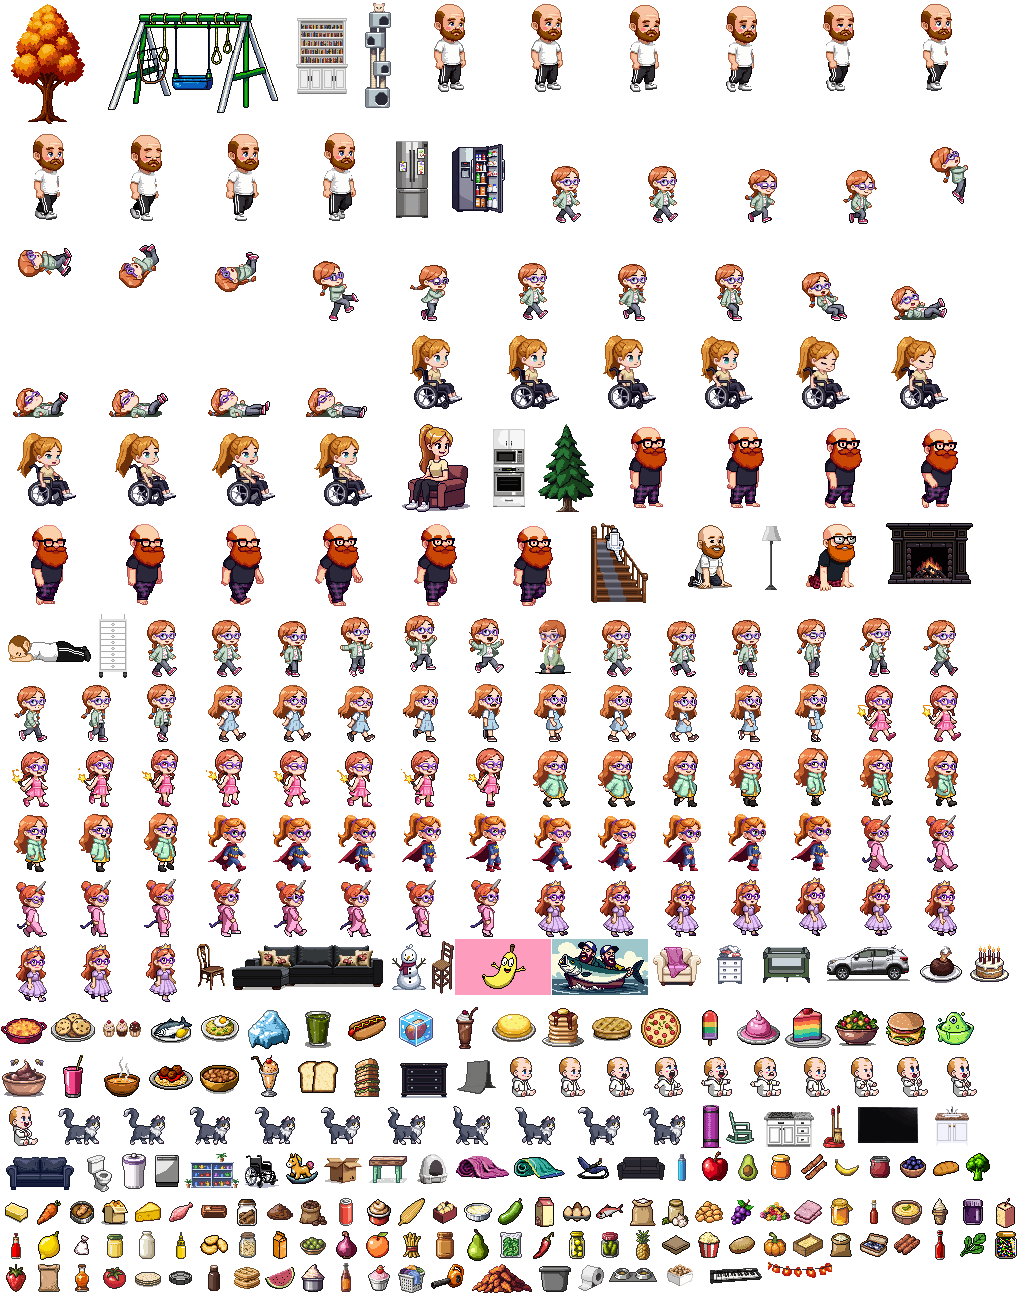
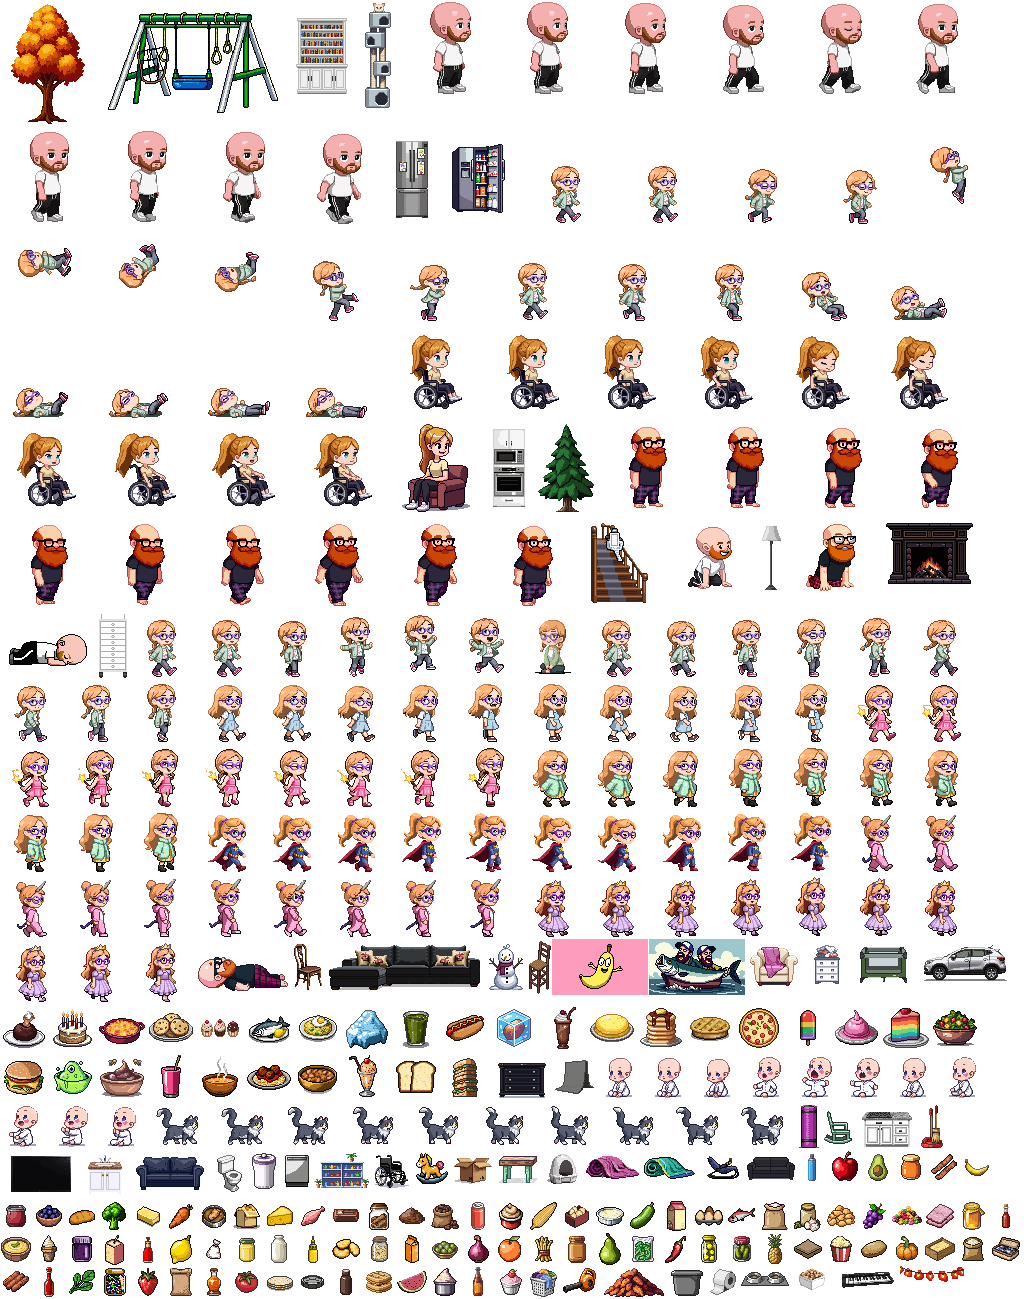
Chef Marina: bald short-beard Daddy, bald Miles, blonder strawberry-blonde Marina, Rory lying pose
Claude-Session: https://claude.ai/code/session_01VMaYe4JYu1MQheqKkDSWH1

diff --git a/chef-marina/game.js b/chef-marina/game.js
@@ -59,7 +59,7 @@ function drawEnt(e) {
     case 'marina': return drawMarina(e);
     case 'daddy': case 'rory': {
       if (e.state === 'horse') { drawSprite(e.id + '_horse', e.x, e.y + Math.abs(Math.sin(t * 10)) * -3, { flip }); return; }
-      if (e.state === 'lie') { drawSprite('daddy_lie', e.x, e.y + 2, { flip, opt: e.id === 'rory' ? { tint: [200, 90, 40, 0.0] } : null }); if (chance(0.02)) emit('zzz', e.x, e.y - 30); return; }
+      if (e.state === 'lie') { drawSprite(e.id + '_lie', e.x, e.y + 2, { flip }); if (chance(0.02)) emit('zzz', e.x, e.y - 30); return; }
       if (e.state === 'toilet') return;
       const k = e.moving ? frameKey(e.id + '_walk', t, e.curSpeed > 80 ? 16 : 9) : e.id;
       let sy = 1, rot = 0, oy = 0;
@@ -333,7 +333,7 @@ function hitTest(wx, wy) {
     if (e === miles) { sc = 0.8; ey = e.spot === 'crib' ? BACK - 10 : 156; }
     if (e === niko) { sc = 0.8; if (e.state === 'sleep' && e.perchY) ey = e.perchY; }
     if (e === mommy && e.state === 'sit') key = 'mommy_sit';
-    if ((e === daddy || e === rory) && e.state === 'lie') key = 'daddy_lie';
+    if ((e === daddy || e === rory) && e.state === 'lie') key = e.id + '_lie';
     if ((e === daddy || e === rory) && e.state === 'horse') key = e.id + '_horse';
     const b = visBox(key), pad = 6;
     if (wx > e.x + b[0] * sc - pad && wx < e.x + b[2] * sc + pad && wy > ey + b[1] * sc - pad && wy < ey + b[3] * sc + pad) return { kind: 'ent', e };

diff --git a/chef-marina/ui.js b/chef-marina/ui.js
@@ -209,7 +209,7 @@ const UI = (() => {
 
   // =========================================================== DRESS-UP
   const OUTFITS = [['default', 'marina'], ['fairy', 'o_fairy'], ['princess', 'o_princess'], ['bluedress', 'o_bluedress'], ['furcoat', 'o_furcoat'], ['hero', 'o_hero'], ['pajamas', 'o_pajamas']];
-  const HAIRS = { ginger: '#e8742c', blonde: '#f2cf6b', brown: '#7a4a26', black: '#2a2730', pink: '#ff7ab8', blue: '#4aa8ff', purple: '#a46cf0', green: '#5fcf6a', rainbow: 'conic-gradient(red,orange,yellow,lime,cyan,blue,magenta,red)' };
+  const HAIRS = { ginger: '#eba864', blonde: '#f2cf6b', brown: '#7a4a26', black: '#2a2730', pink: '#ff7ab8', blue: '#4aa8ff', purple: '#a46cf0', green: '#5fcf6a', rainbow: 'conic-gradient(red,orange,yellow,lime,cyan,blue,magenta,red)' };
   const ACCS = [null, '🎀', '👑', '🌸', '💎', '⭐', '🦄'];
   function openDress() {
     say('m_pretty');

diff --git a/chef-marina/engine.js b/chef-marina/engine.js
@@ -54,7 +54,7 @@ function recolor(c, opt) {
     const y = (p / 4 / W) | 0, xx = (p / 4) % W; const [h, s, v] = rgb2hsv(d[p], d[p + 1], d[p + 2]);
     if (opt.noGlasses && y < headBottom && ((h > 235 && h < 300 && s > 0.22) || (h > 300 && h < 330 && s > 0.3 && v > 0.5))) {
       d[p] = skin[0]; d[p + 1] = skin[1]; d[p + 2] = skin[2]; continue; }
-    if (opt.hair && HAIR[opt.hair] && ((h <= 38 || h >= 355) && s > 0.5 && v > 0.25)) {
+    if (opt.hair && HAIR[opt.hair] && ((h <= 38 || h >= 355) && s > 0.36 && v > 0.3 && y < headBottom + (bot - top) * 0.25)) {
       let nh, ns, nv; const H2 = HAIR[opt.hair];
       if (H2 === 'rainbow') { nh = ((y - top) * 18 + xx * 4) % 360; ns = 0.75; nv = Math.min(1, v * 1.1); }
       else { nh = H2[0]; ns = Math.min(1, s * H2[1]); nv = Math.min(1, v * H2[2]); }
